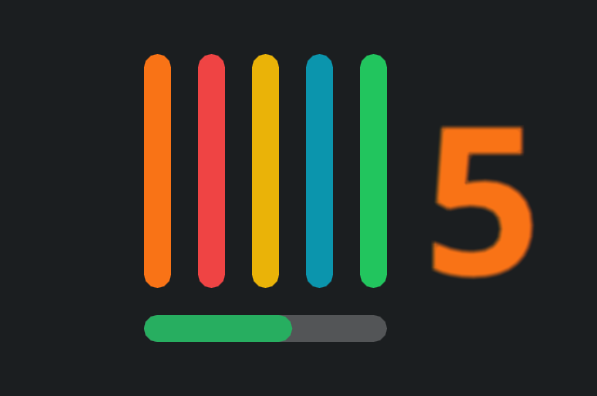
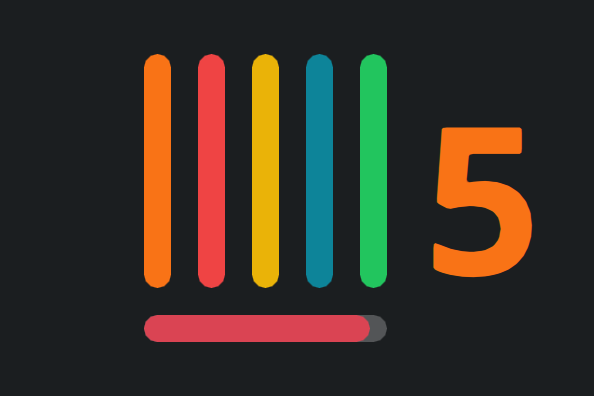
Show the usage bar changing colour, and record the popup's gestures
The plan-usage bar only ever appeared at 61% across the whole README, so the
one thing it does - go green, amber, red as the limit fills - was invisible.
The panel shot now sits at 93%, and the demo runs from 61% to 95% as it plays.
The two shots in "The popup" stay where they were: that section is about the
list, and moving the number there would only be noise.

The demo also stopped drawing a box behind the panel widget. It was a shade
darker than everything around it, so when a session started and a sixth bar
appeared, the box visibly resized. Same colour, no edge, nothing to notice.

Three recordings added, because a still cannot show a gesture:

  usage.gif    the selector opened, both accounts on screen, bars sliding
               between readings rather than jumping
  copy.gif     a session opened, one value clicked to copy, then the whole
               row right-clicked
  actions.gif  a session renamed in the widget, and another one ended

usage.gif replaces popup-usage.png, which showed the same footer holding
still.

diff --git a/README.md b/README.md
@@ -63,7 +63,8 @@ doing, so a glance is enough.
 
 The number beside the bars is the session count, coloured by whichever state has
 the most sessions - unless something is waiting on you, which always takes
-priority. Underneath sits a thin bar for your plan usage.
+priority. Underneath sits a thin bar for your plan usage, which turns amber
+and then red as the limit fills.
 
 ## The popup
 
@@ -82,9 +83,19 @@ copies the whole row, or the command to drop back into that session.
 </tr>
 </table>
 
+<div align="center">
+<img src="docs/screenshots/copy.gif" alt="A session opened, one of its values clicked to copy it, then the whole row right-clicked" width="660">
+<p><sub>Open a session, click a value to copy it, or right-click for all of it</sub></p>
+</div>
+
 Hovering a row gives you a pencil, to rename it to something you will recognise,
 and a close button that asks before ending the session. The eye in the header
 blanks every name and path for screen-sharing.
+
+<div align="center">
+<img src="docs/screenshots/actions.gif" alt="A session being renamed in the widget, then another one ended" width="660">
+<p><sub>Rename one, or end one - the second click is the confirmation</sub></p>
+</div>
 
 ## Plan usage
 
@@ -93,7 +104,8 @@ one tracks - session, weekly, or a model-scoped one - and the panel bar follows
 whichever you chose.
 
 <div align="center">
-<img src="docs/screenshots/popup-usage.png" alt="Both profiles' usage bars, expanded" width="520">
+<img src="docs/screenshots/usage.gif" alt="The usage footer opened to show both accounts, their bars sliding between readings and changing colour" width="660">
+<p><sub>Both accounts at once, green to amber to red as the limit fills</sub></p>
 </div>
 
 ## Install
